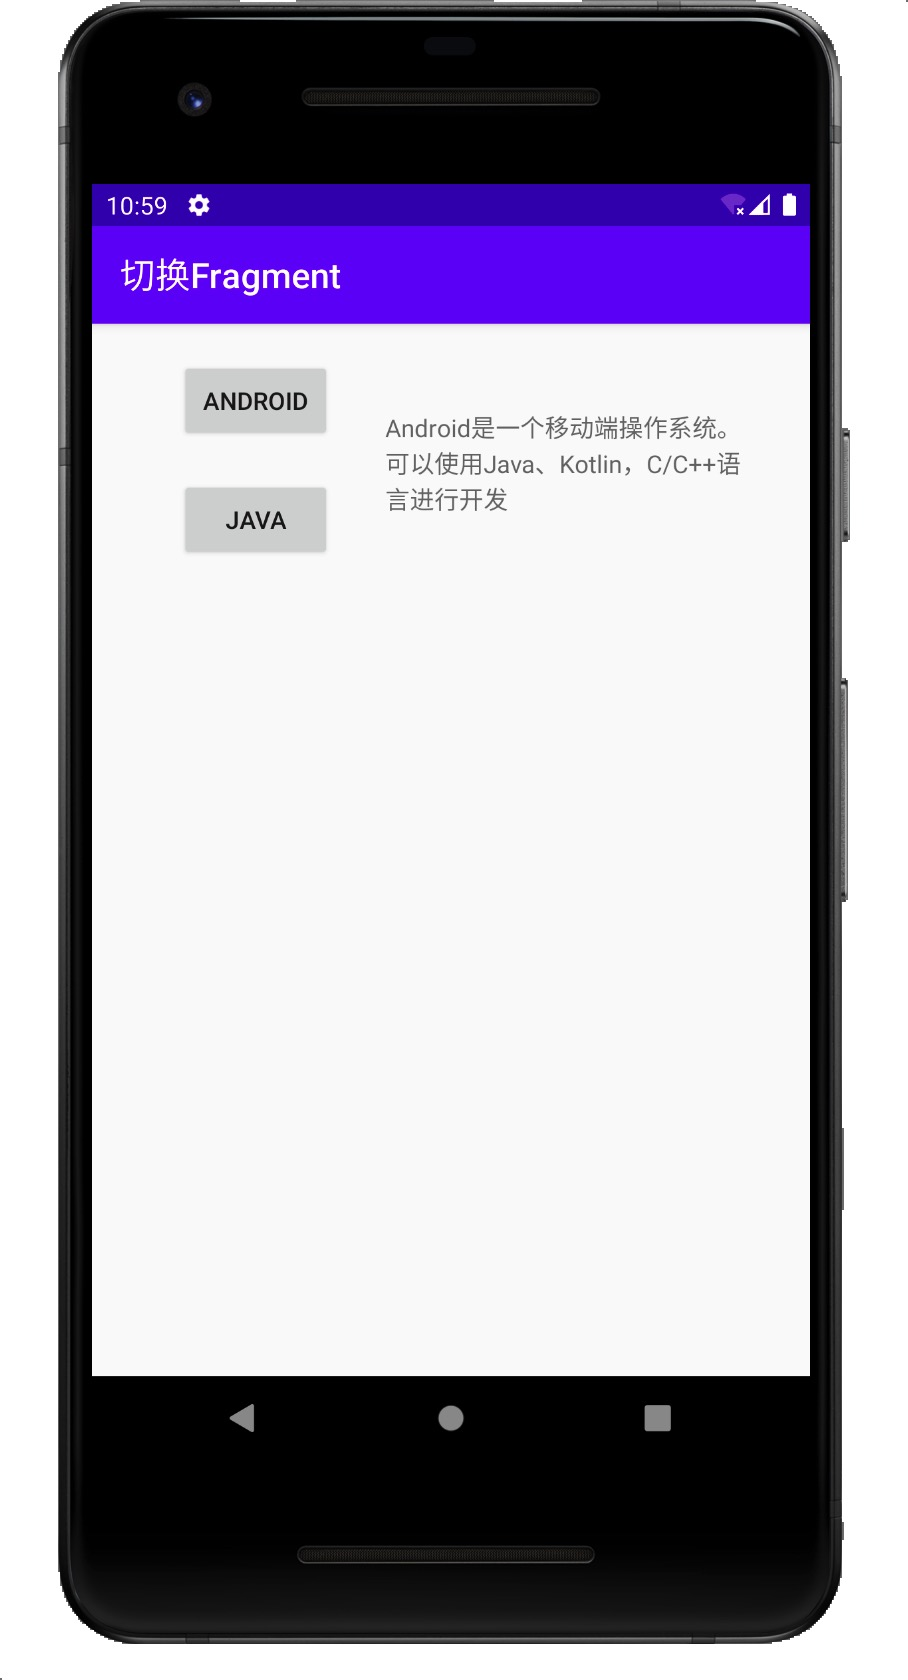
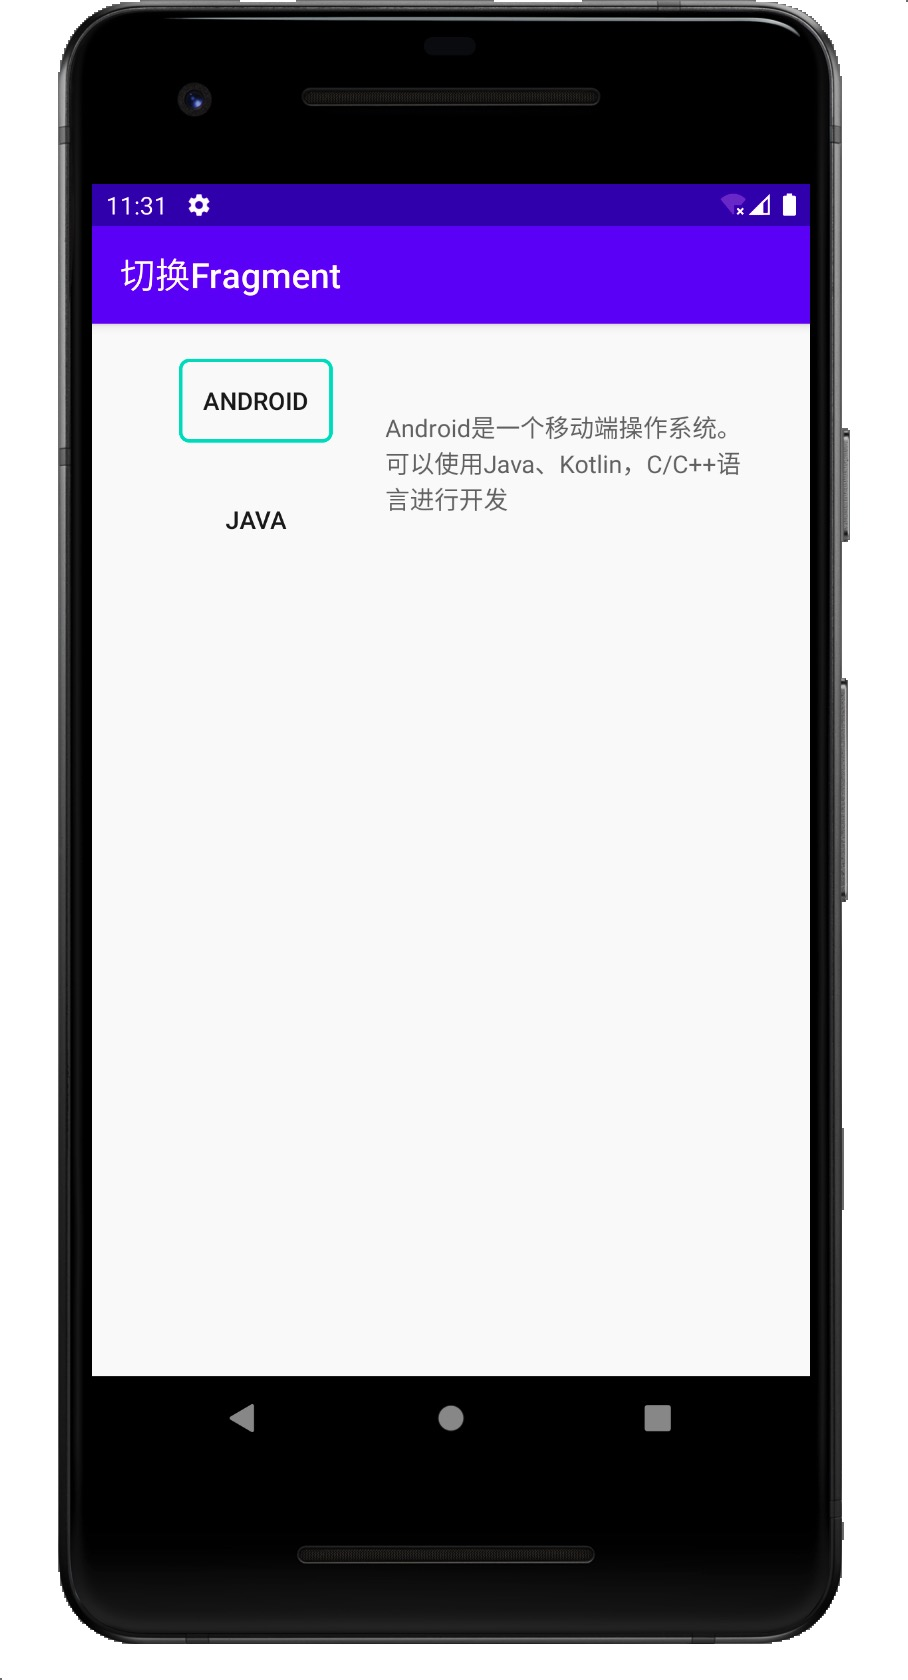
add style

Changed region(s): [[0.185, 0.2167, 0.37, 0.3405], [0.1542, 0.0929, 0.185, 0.1238]]

diff --git a/app/src/main/java/com/thoughtworks/fragment/ListFragment.java b/app/src/main/java/com/thoughtworks/fragment/ListFragment.java
@@ -52,5 +52,14 @@ public class ListFragment extends Fragment {
         TextView detailTextView = getActivity().findViewById(R.id.detail);
         detailTextView.setText(detail);
         transaction.commit();
+        if (getView() != null) {
+            if (detail == R.string.android_detail) {
+                getView().findViewById(R.id.android_btn).setBackground(getResources().getDrawable(R.drawable.btn_selected));
+                getView().findViewById(R.id.java_btn).setBackground(null);
+            } else {
+                getView().findViewById(R.id.java_btn).setBackground(getResources().getDrawable(R.drawable.btn_selected));
+                getView().findViewById(R.id.android_btn).setBackground(null);            }
+        }
+
     }
 }
